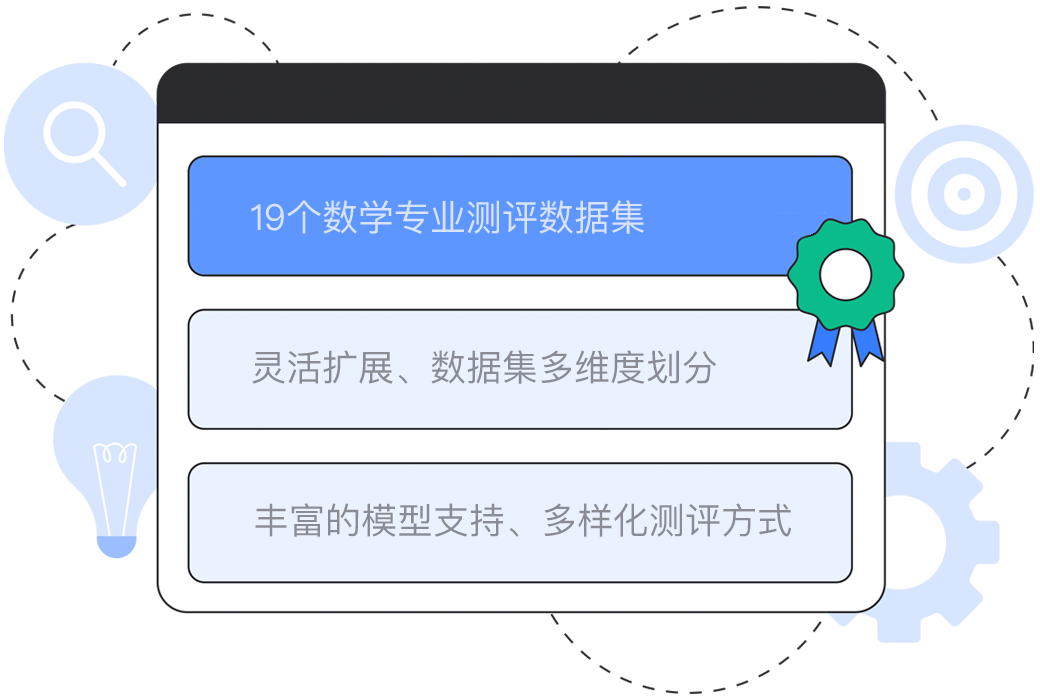
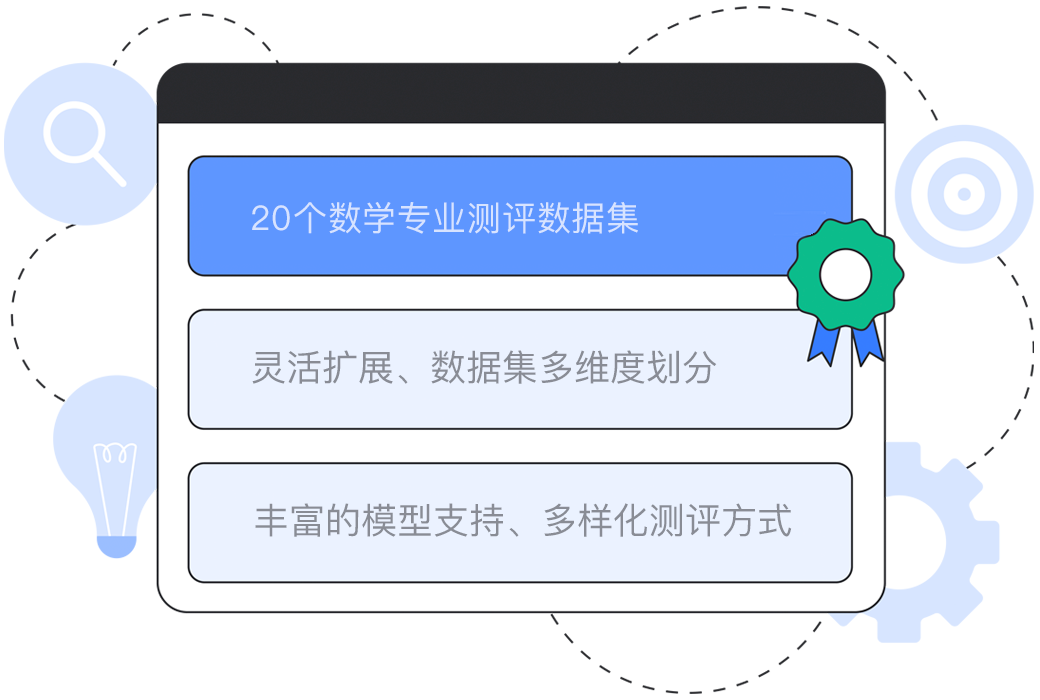
update

Changed region(s): [[0.2462, 0.27, 0.6154, 0.33]]

diff --git a/content/en/homepage/_index.md b/content/en/homepage/_index.md
@@ -2,7 +2,7 @@
 # Banner
 banner:
   title: Evaluation of LLMs on math
-  content: MathEval is a benchmark dedicated to the holistic evaluation on mathematical capacities of LLMs, consisting of 19 evaluation datasets in various mathematical fields and nearly 30,000 math problems. The aim is to comprehensively evaluate the mathematical problem-solving abilities of LLMs in various grades and difficulties, including arithmetic, primary and secondary school competitions, and some advanced branches of mathematics. MathEval can not only serve as a one-stop reference for horizontal comparison of mathematical abilities among LLMs, but also provides hints and insights on how to further improve the mathematical abilities of LLMs in the future.
+  content: MathEval is a benchmark dedicated to the holistic evaluation on mathematical capacities of LLMs, consisting of 20 evaluation datasets in various mathematical fields and nearly 30,000 math problems. The aim is to comprehensively evaluate the mathematical problem-solving abilities of LLMs in various grades and difficulties, including arithmetic, primary and secondary school competitions, and some advanced branches of mathematics. MathEval can not only serve as a one-stop reference for horizontal comparison of mathematical abilities among LLMs, but also provides hints and insights on how to further improve the mathematical abilities of LLMs in the future.
   image: /images/banner.png
   button:
     enable: true
@@ -159,7 +159,7 @@ model:
 
 # Dataset
 dataset:
-  title: 19 specialized math evaluation datasets
+  title: 20 specialized math evaluation datasets
 
 # Contact
 contact:

diff --git a/content/zh/homepage/_index.md b/content/zh/homepage/_index.md
@@ -2,7 +2,7 @@
 # Banner
 banner:
   title: 大模型数学能力测评
-  content: MathEval是一个专注于全面评估大模型数学能力的测评基准。共包含19个数学领域测评集和近30K道数学题目，旨在全面评估大模型在包含算术，小初高竞赛和部分高等数学分支在内的各阶段、难度和数学子领域的解题能力表现，既可以作为现阶段大模型之间数学能力横向对比的一站式参考，也可以为后续如何进一步提高大模型数学能力指引方向。
+  content: MathEval是一个专注于全面评估大模型数学能力的测评基准。共包含20个数学领域测评集和近30K道数学题目，旨在全面评估大模型在包含算术，小初高竞赛和部分高等数学分支在内的各阶段、难度和数学子领域的解题能力表现，既可以作为现阶段大模型之间数学能力横向对比的一站式参考，也可以为后续如何进一步提高大模型数学能力指引方向。
   image: /images/banner.png
   button:
     enable: true
@@ -159,7 +159,7 @@ model:
 
 # Dataset
 dataset:
-  title: 19个数学专业测评数据集
+  title: 20个数学专业测评数据集
 
 # Contact
 contact:

diff --git a/content/en/dataset/gaokao-2024.md b/content/en/dataset/gaokao-2024.md
@@ -1,0 +1,28 @@
+---
+title: "GAOKAO-2024"
+description: "The 2024 Chinese college entrance examination (Gaokao) math test includes 115 multiple-choice questions and 114 fill-in-the-blank and application questions."
+categories: ["Math world CN"]
+weight: 120
+draft: false
+---
+
+#### 简介
+
+The 2024 Chinese college entrance examination (Gaokao) math test includes 115 multiple-choice questions and 114 fill-in-the-blank and application questions.
+
+#### 示例
+
+```json
+{
+  "question_id": "56ad96dfdb6b4e2888a0887fddfe0245", 
+  "source": 1, 
+  "subject_id": 2, 
+  "grade_id": 0, 
+  "grade_group": 3, 
+  "question_type": 1, 
+  "content": "设$$z=5+\\rm i$$，则$${i}\\left( \\overline{z}+z\\right)=$$（   ）．\nA.$$10\\rm i$$\nB.$$2\\rm i$$\nC.$$10$$\nD.$$-2$$\n", 
+  "answer": "A\n", 
+  "analysis": "因为$$z=5+\\rm i$$，所以$$\\overline{z}=5-\\rm i$$，\n所以$$z+\\overline{z}=10$$，\n所以$${i}\\left( \\overline{z}+z\\right)=10\\rm i$$．\n故选：$${A}$$．",
+  "shijuan": "2024年全国甲卷理科高考真题数学试卷"
+}
+```

diff --git a/content/en/sections/dataset-banner.md b/content/en/sections/dataset-banner.md
@@ -1,4 +1,4 @@
 ---
 title: Evaluation datasets
-description: A total of 19 mathematical evaluation datasets, widely used in dozens of top artificial intelligence conferences such as ACL, AAAI, and ICLR since 2010 till now, have been collected. The collected evaluation datasets cover to a certain extent different grades, question types, text forms, and difficulty levels of mathematical problems, which facilitates the provision of more comprehensive and fine-grained mathematical ability evaluation results for LLMs participating in the evaluation.
+description: A total of 20 mathematical evaluation datasets, widely used in dozens of top artificial intelligence conferences such as ACL, AAAI, and ICLR since 2010 till now, have been collected. The collected evaluation datasets cover to a certain extent different grades, question types, text forms, and difficulty levels of mathematical problems, which facilitates the provision of more comprehensive and fine-grained mathematical ability evaluation results for LLMs participating in the evaluation.
 ---

diff --git a/content/zh/dataset/gaokao-2024.md b/content/zh/dataset/gaokao-2024.md
@@ -1,0 +1,28 @@
+---
+title: "GAOKAO-2024"
+description: "2024年中国高考数学题包含115个选择题，填空和应用题114道。"
+categories: ["应用题-中文"]
+weight: 120
+draft: false
+---
+
+#### 简介
+
+2024年中国高考数学题包含115个选择题，填空和应用题114道。
+
+#### 示例
+
+```json
+{
+  "question_id": "56ad96dfdb6b4e2888a0887fddfe0245", 
+  "source": 1, 
+  "subject_id": 2, 
+  "grade_id": 0, 
+  "grade_group": 3, 
+  "question_type": 1, 
+  "content": "设$$z=5+\\rm i$$，则$${i}\\left( \\overline{z}+z\\right)=$$（   ）．\nA.$$10\\rm i$$\nB.$$2\\rm i$$\nC.$$10$$\nD.$$-2$$\n", 
+  "answer": "A\n", 
+  "analysis": "因为$$z=5+\\rm i$$，所以$$\\overline{z}=5-\\rm i$$，\n所以$$z+\\overline{z}=10$$，\n所以$${i}\\left( \\overline{z}+z\\right)=10\\rm i$$．\n故选：$${A}$$．",
+  "shijuan": "2024年全国甲卷理科高考真题数学试卷"
+}
+```

diff --git a/content/zh/sections/dataset-banner.md b/content/zh/sections/dataset-banner.md
@@ -1,4 +1,4 @@
 ---
 title: 测评数据集
-description: 收集从2010年至今的ACL，AAAI，ICLR等数十个人工智能顶会论文中广泛使用的数学能力测评数据集共19个。收集的测评集一定程度充分覆盖了不同年级，题型，文本形式和难度的数学问题，便于为参与测评的大模型提供更全面和细粒度的数学能力测评结果。
+description: 收集从2010年至今的ACL，AAAI，ICLR等数十个人工智能顶会论文中广泛使用的数学能力测评数据集共20个。收集的测评集一定程度充分覆盖了不同年级，题型，文本形式和难度的数学问题，便于为参与测评的大模型提供更全面和细粒度的数学能力测评结果。
 ---
